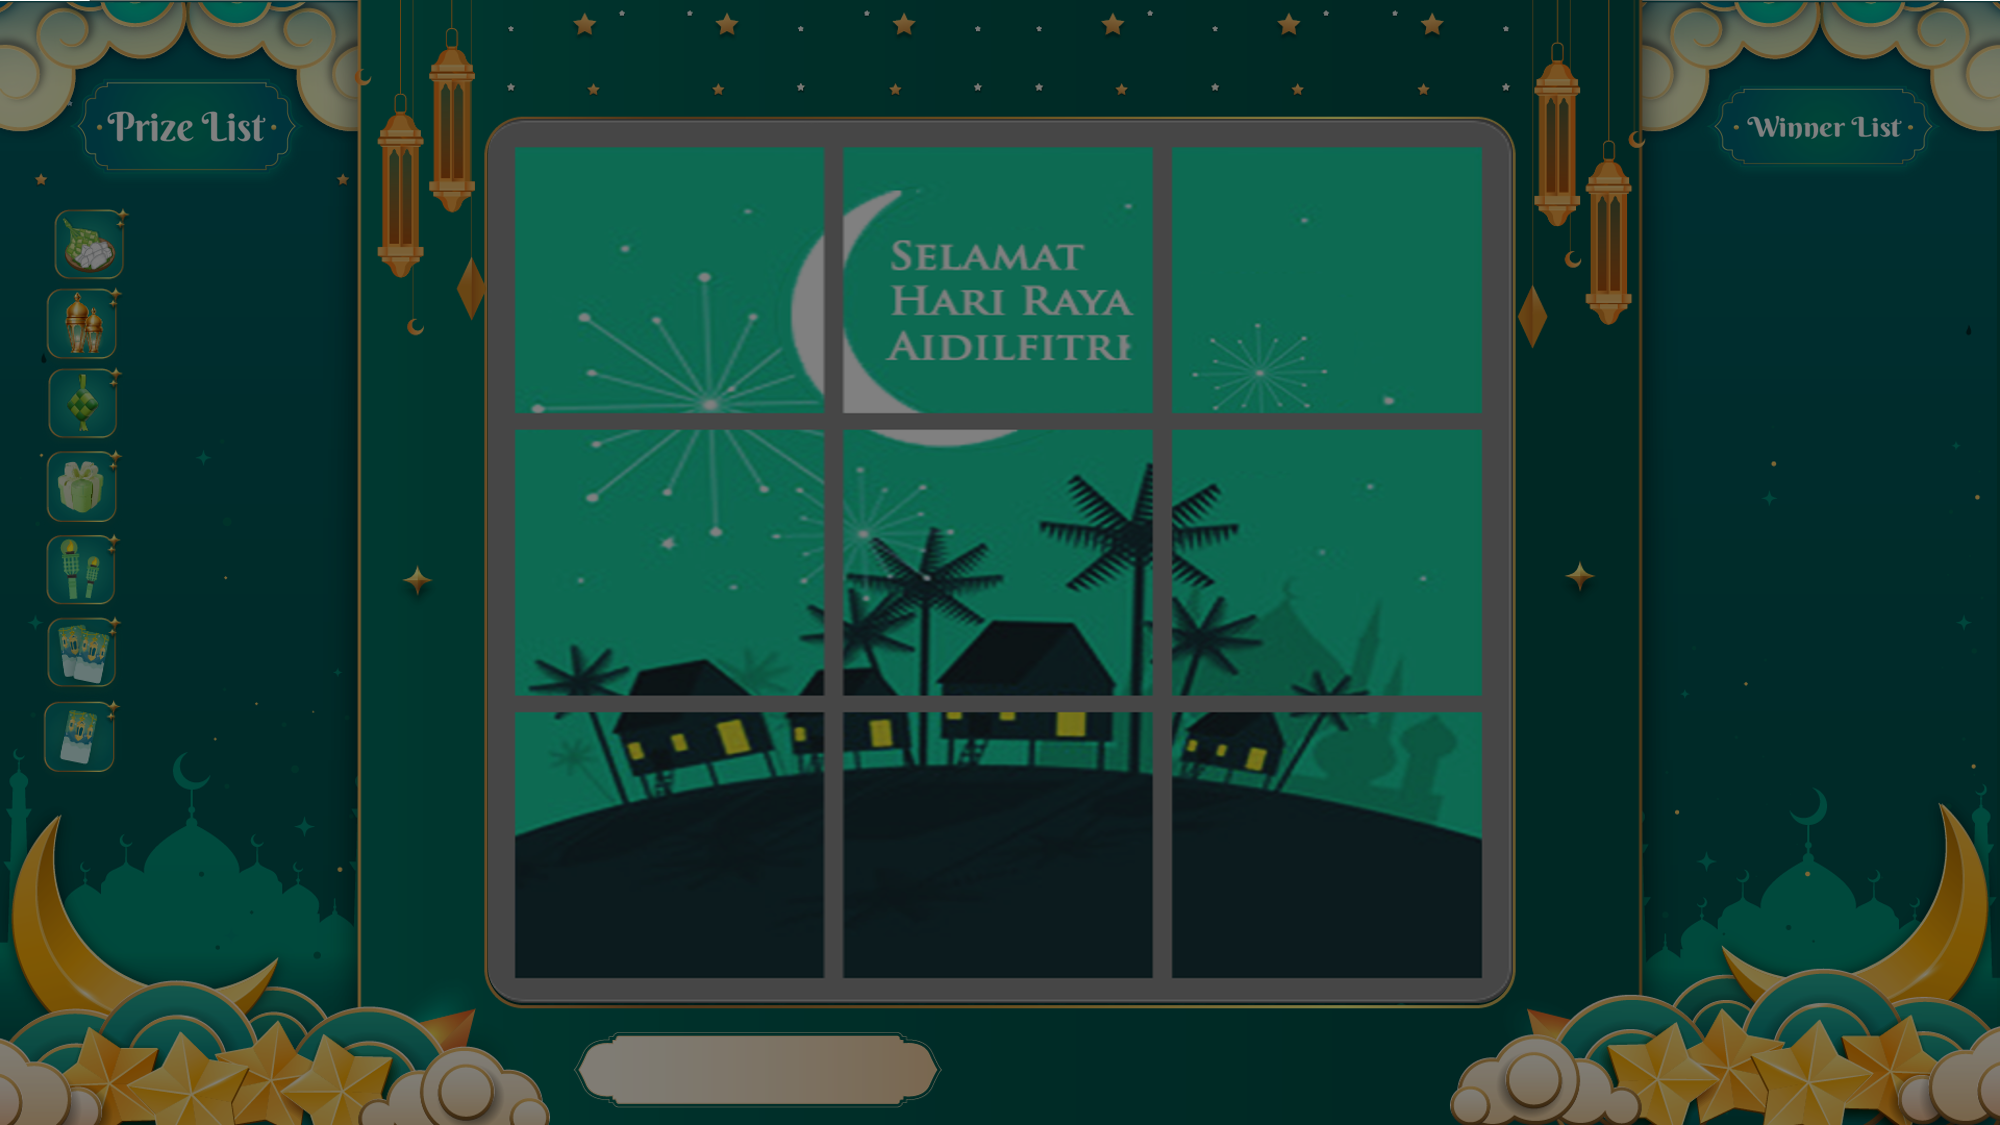
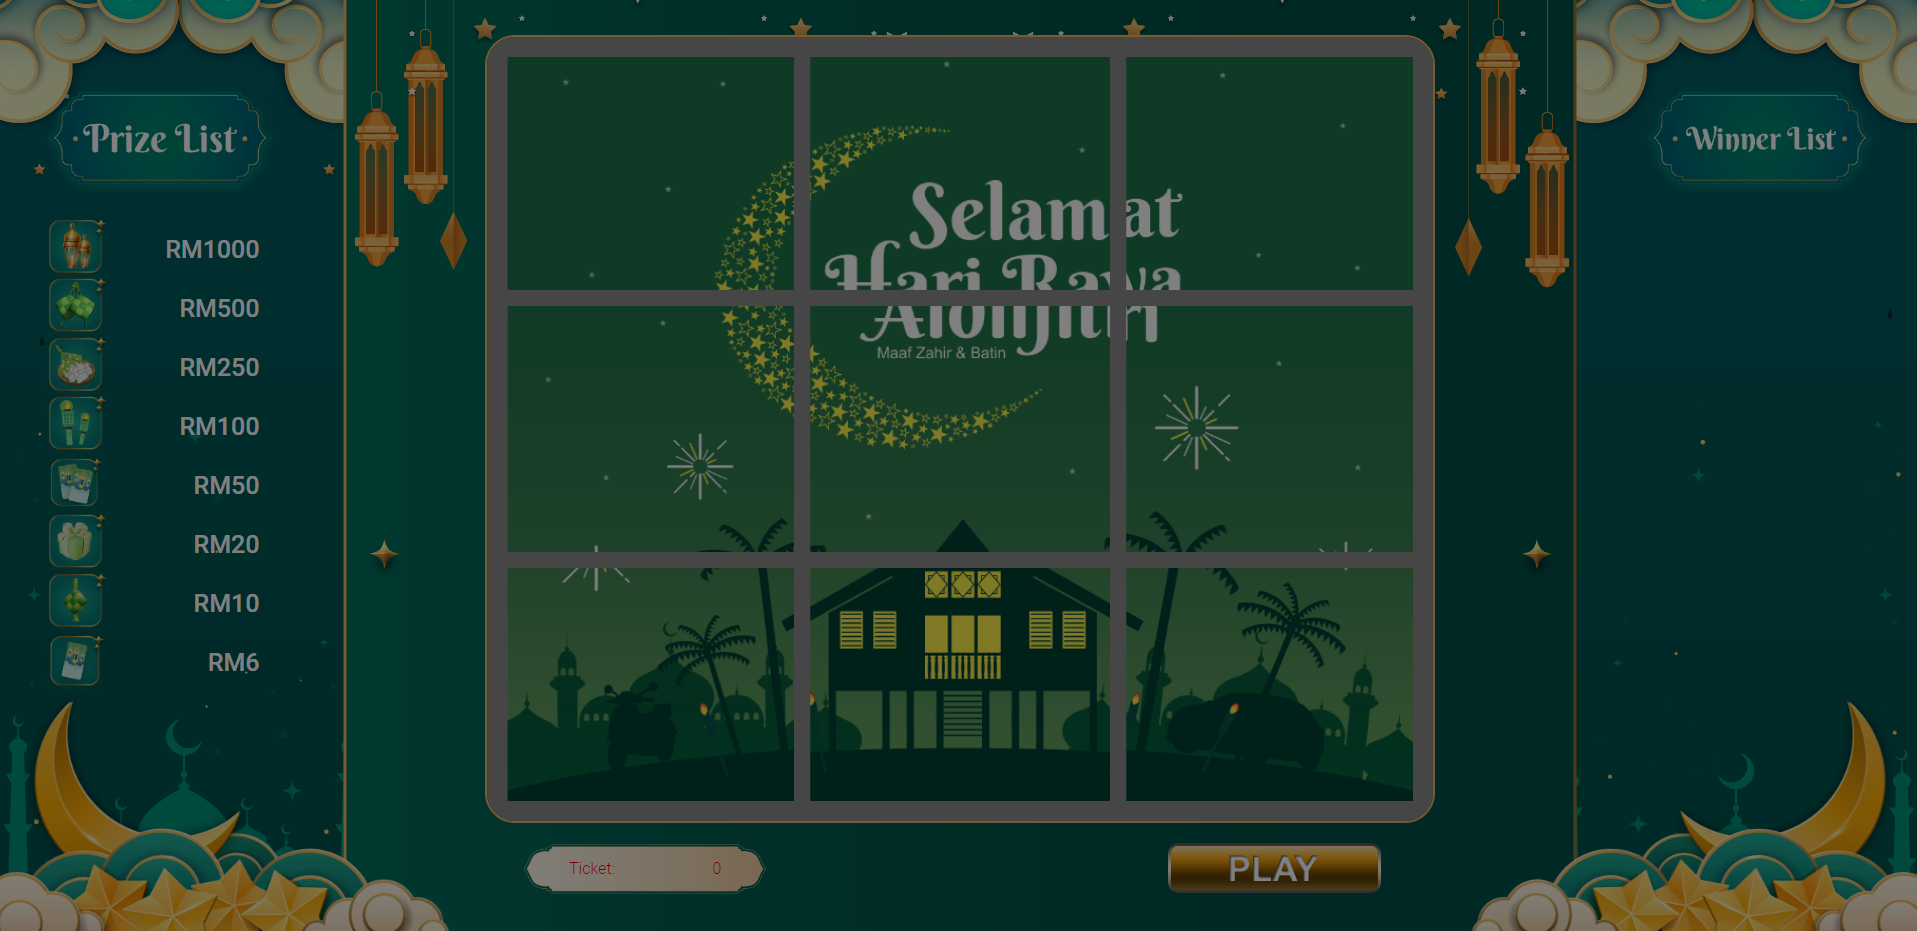
update

diff --git a/assets/css/_page/index.css b/assets/css/_page/index.css
@@ -6555,9 +6555,8 @@ html[lang="en"] .sponsor-leicester-item__content.ss2 .infoDetails {
   position: relative;
   border: 3px solid #0e3a2e;
   border-radius: 8px;
-  min-height: 500px; }
+  min-height: 600px; }
   .raia-mini-game-page__container .play-now > div {
-    background-color: rgba(0, 0, 0, 0.7);
     content: "";
     width: 100%;
     height: 100%;

diff --git a/assets/css/index.css b/assets/css/index.css
@@ -6994,9 +6994,8 @@ html[lang="en"] .sponsor-leicester-item__content.ss2 .infoDetails {
   position: relative;
   border: 3px solid #0e3a2e;
   border-radius: 8px;
-  min-height: 500px; }
+  min-height: 600px; }
   .raia-mini-game-page__container .play-now > div {
-    background-color: rgba(0, 0, 0, 0.7);
     content: "";
     width: 100%;
     height: 100%;

diff --git a/src/assets/scss/_page/raia-mini-game.scss b/src/assets/scss/_page/raia-mini-game.scss
@@ -368,10 +368,10 @@
       position: relative;
       border: 3px solid #0e3a2e;
       border-radius: 8px;
-      min-height: 500px;
+      min-height: 600px;
 
       &>div {
-        background-color: rgba(0, 0, 0, 0.7);
+        // background-color: rgba(0, 0, 0, 0.7);
         content: "";
         width: 100%;
         height: 100%;

diff --git a/assets/css/_page/raia-mini-game.css b/assets/css/_page/raia-mini-game.css
@@ -234,9 +234,8 @@
   position: relative;
   border: 3px solid #0e3a2e;
   border-radius: 8px;
-  min-height: 500px; }
+  min-height: 600px; }
   .raia-mini-game-page__container .play-now > div {
-    background-color: rgba(0, 0, 0, 0.7);
     content: "";
     width: 100%;
     height: 100%;
